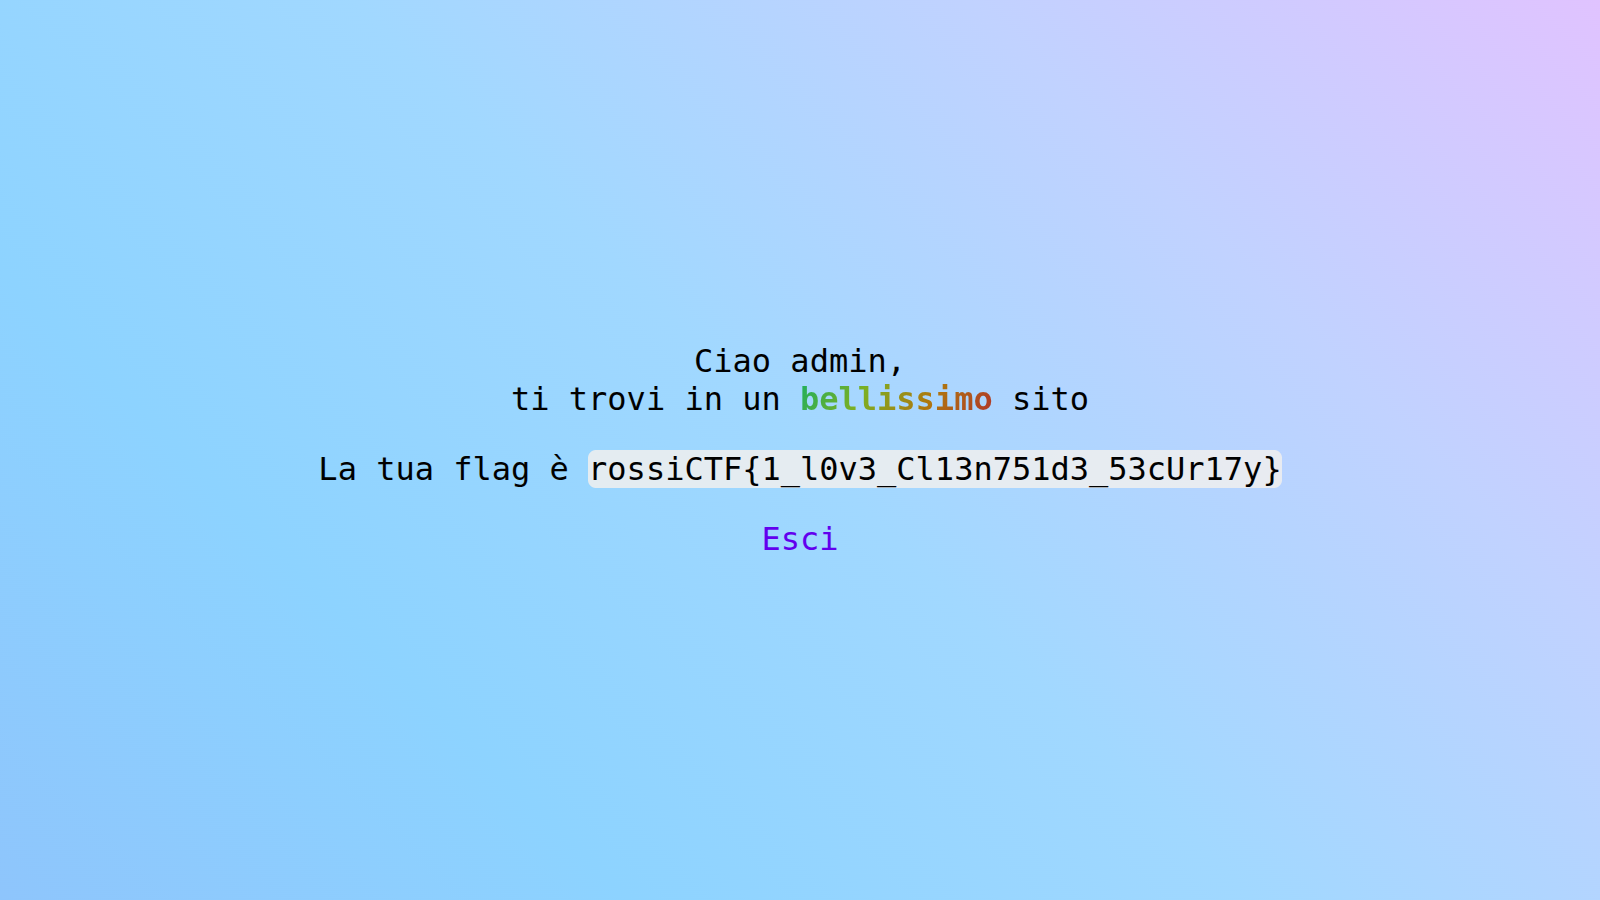
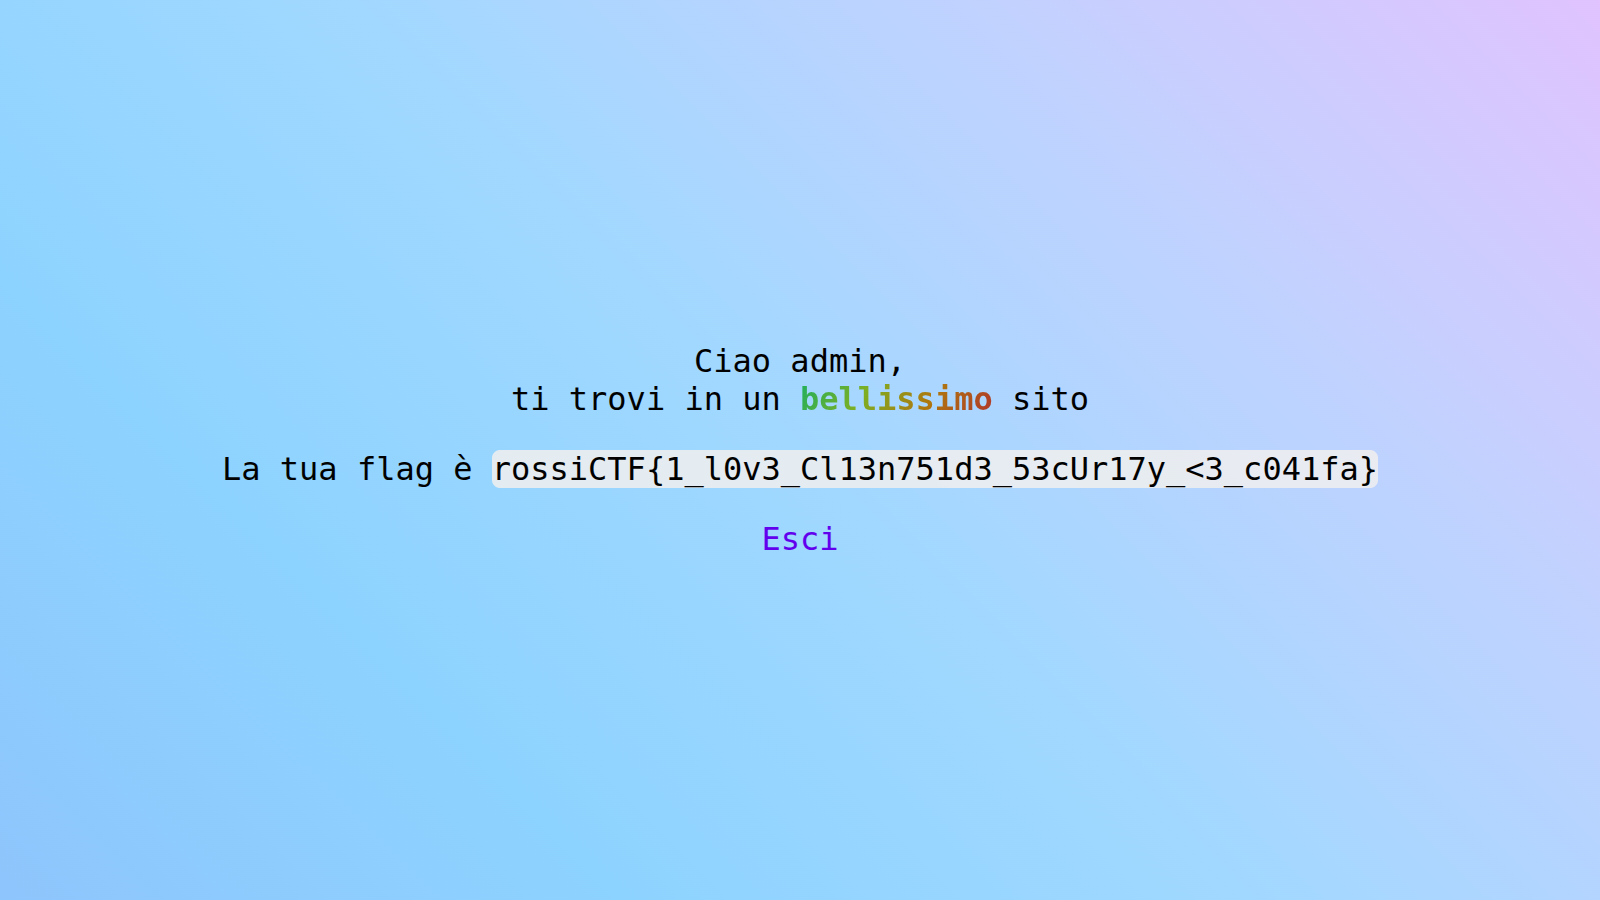
Aggiunto il writeup di calc1

Changed region(s): [[0.1562, 0.4978, 0.875, 0.56]]

diff --git a/challs/web/ssl/site/welcome.php b/challs/web/ssl/site/welcome.php
@@ -3,4 +3,4 @@ session_start();
 if (!isset($_SESSION['user'])) { header('Location: .'); exit; }
 $admin = $_SESSION['user'] === 'admin';
 ?>
-<!DOCTYPE html><html lang="it"><head><meta charset="utf-8"><title>Il tuo profilo</title><meta name="viewport" content="width=device-width"><style>html,body{height:100%}body{margin:0;padding:16px;box-sizing:border-box;background-image:linear-gradient(45deg,#8ec5fc 0,#8dd3ff 25%,#a1d8ff 50%,#c1d2ff 75%,#e0c3ff 100%);display:flex;flex-direction:column;justify-content:center;align-items:center;gap:32px;font-family:monospace;font-size:2rem;text-align:center}p{margin:0}span{background-image:linear-gradient(300deg,#af342b 0,#af760f 33.333%,#7daf23 66.667%,#1faf5e 100%);background-clip:text;color:transparent;font-weight:bold}<?php if ($admin): ?>code{border-radius:8px;background-color:rgba(239,239,239,.87)}<?php endif; ?>a{color:#6200ee}a:not(:hover){text-decoration:none}</style></head><body><p>Ciao <?= htmlspecialchars($_SESSION['user']) ?>,<br>ti trovi in un <span>bellissimo</span> sito</p><?php if ($admin): ?><p>La tua flag è <code>rossiCTF{1_l0v3_Cl13n751d3_53cUr17y}</code></p><?php endif; ?><a href="logout.php">Esci</a></body></html>
+<!DOCTYPE html><html lang="it"><head><meta charset="utf-8"><title>Il tuo profilo</title><meta name="viewport" content="width=device-width"><style>html,body{height:100%}body{margin:0;padding:16px;box-sizing:border-box;background-image:linear-gradient(45deg,#8ec5fc 0,#8dd3ff 25%,#a1d8ff 50%,#c1d2ff 75%,#e0c3ff 100%);display:flex;flex-direction:column;justify-content:center;align-items:center;gap:32px;font-family:monospace;font-size:2rem;text-align:center}p{margin:0}span{background-image:linear-gradient(300deg,#af342b 0,#af760f 33.333%,#7daf23 66.667%,#1faf5e 100%);background-clip:text;color:transparent;font-weight:bold}<?php if ($admin): ?>code{border-radius:8px;background-color:rgba(239,239,239,.87)}<?php endif; ?>a{color:#6200ee}a:not(:hover){text-decoration:none}</style></head><body><p>Ciao <?= htmlspecialchars($_SESSION['user']) ?>,<br>ti trovi in un <span>bellissimo</span> sito</p><?php if ($admin): ?><p>La tua flag è <code>rossiCTF{1_l0v3_Cl13n751d3_53cUr17y_<3_c041fa}</code></p><?php endif; ?><a href="logout.php">Esci</a></body></html>

diff --git a/challs/misc/calc1/writeup/README.md b/challs/misc/calc1/writeup/README.md
@@ -1,0 +1,43 @@
+# PyCalcolatrice 1.0 (`calc1`)
+
+Collegandosi al `nc` ci si trova davanti un'interfaccia simile alla REPL Python, che permette di eseguire calcoli anche simbolici e con funzioni avanzate.
+
+![La REPL](repl.png)
+
+Analizzando lo script, all'inizio vengono impostati alcuni limiti sul processo, tra cui:
+- Massimo 3 secondi di utilizzo della CPU;
+- Massimo 1 processo in esecuzione (cioè non se ne possono lanciare altri);
+- Massimo 64 MB di memoria.
+
+Questi limiti servono solo a rendere impossibile che con l'exploit un partecipante possa danneggiare l'ambiente di esecuzione (che comunque è una jail, quindi è completamente isolato dal resto del server, però non si sa mai...).
+
+Le righe da 8 a 10 preparano i `globals` da passare a `parse_expr`: di default SymPy include anche i [`builtins` di Python](https://docs.python.org/3/library/builtins.html), cioè funzioni come `input`, `range` e `open`, che però Alberto vuole impedire che qualcuno utilizzi per rompere la calcolatrice (cioè leggere file...), quindi in questo modo si mette a disposizione dell'utente solo gli oggetti e le funzioni di SymPy (es. `x`, `sin`, `Interval`).
+
+Il resto del programma, invece, si occupa semplicemente di eseguire ripetutamente `parse_expr` con l'input dell'utente, che viene richiesto in modo simile alla REPL Python, mostrando eventuali errori.
+
+A questo punto bisogna fare due deduzioni:
+- L'obiettivo è riuscire ad accedere comunque ai `builtins` per leggere la flag (un "sandbox escape");
+- Se `parse_expr` prende un parametro `global_dict`, proprio come il parametro `globals` di `eval`, probabilmente SymPy ha una vulnerabilità, cioè usa indiscriminatamente `eval` per il parsing dell'espressione.
+
+Una conferma di questa ipotesi proviene dalla [documentazione di `parse_expr`](https://docs.sympy.org/latest/modules/parsing.html#sympy.parsing.sympy_parser.parse_expr):
+> Note that this function uses `eval`, and thus shouldn’t be used on unsanitized input.
+
+Quindi ora la parte difficile è capire come ottenere l'oggetto `builtins`.
+
+**Fun fact:** di solito in Python le funzioni hanno un attributo `__builtins__`, che è un dettaglio di implementazione con cui il runtime mette a disposizione i `builtins` all'interno di una funzione. (Per esempio, quando si esegue `input()` in una funzione, questo viene tradotto in `__builtins__.input()`)
+
+Ciò significa che per accedere ai `builtins` è sufficiente trovare una funzione, che però si può cercare solo tra quelle a disposizione, cioè quelle di SymPy. Installando la libreria localmente si può effettuare la ricerca per la funzione col nome più corto da scrivere:
+
+```python
+>>> import sympy
+>>> sorted((name for name in vars(sympy) if hasattr(getattr(sympy, name), "__builtins__")), key=len)
+['N', 'LC', 'LM', 'LT', 'E1', 'fu', 'var', ...]
+```
+
+Scrivendo `N.__builtins__`, quindi, si ha i `builtins` sotto forma di dizionario. A questo punto basta accedere a `open`, per leggere la flag con il metodo `read` del file che viene aperto:
+
+![Exploit](exploit.png)
+
+Flag: `rossiCTF{5yMpy_1S_0v3rP0w3reD_3v4l_iS_7o0!_f6b8a1}`
+
+**Nota:** non era chiaro che il file si chiamasse solo `flag` e fosse nella cartella attuale; poteva anche essere, per esempio, `/flag` (nella cartella root) o `flag.txt`, quindi abbiamo dovuto chiarirlo durante la gara.

diff --git a/challs/web/ssl/writeup/README.md b/challs/web/ssl/writeup/README.md
@@ -28,4 +28,4 @@ Aggiornando la pagina compare la pagina dell'amministratore, che rispetto a quel
 
 ![La pagina dell'amministratore](admin.png)
 
-Flag: `rossiCTF{1_l0v3_Cl13n751d3_53cUr17y}`
+Flag: `rossiCTF{1_l0v3_Cl13n751d3_53cUr17y_<3_c041fa}`
